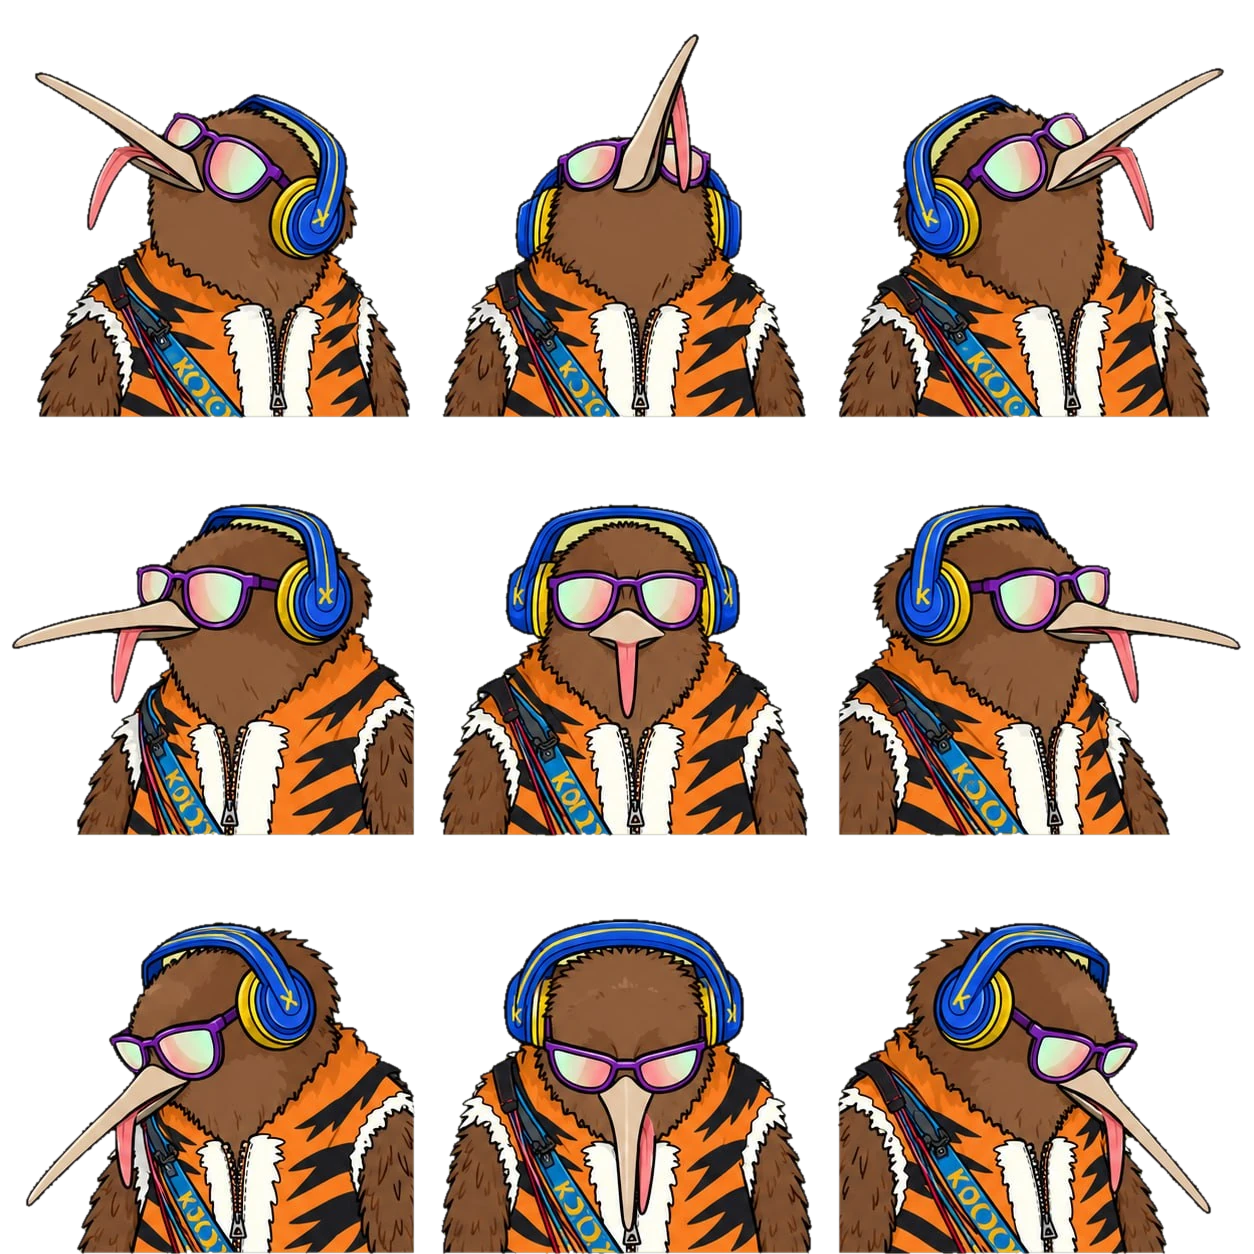
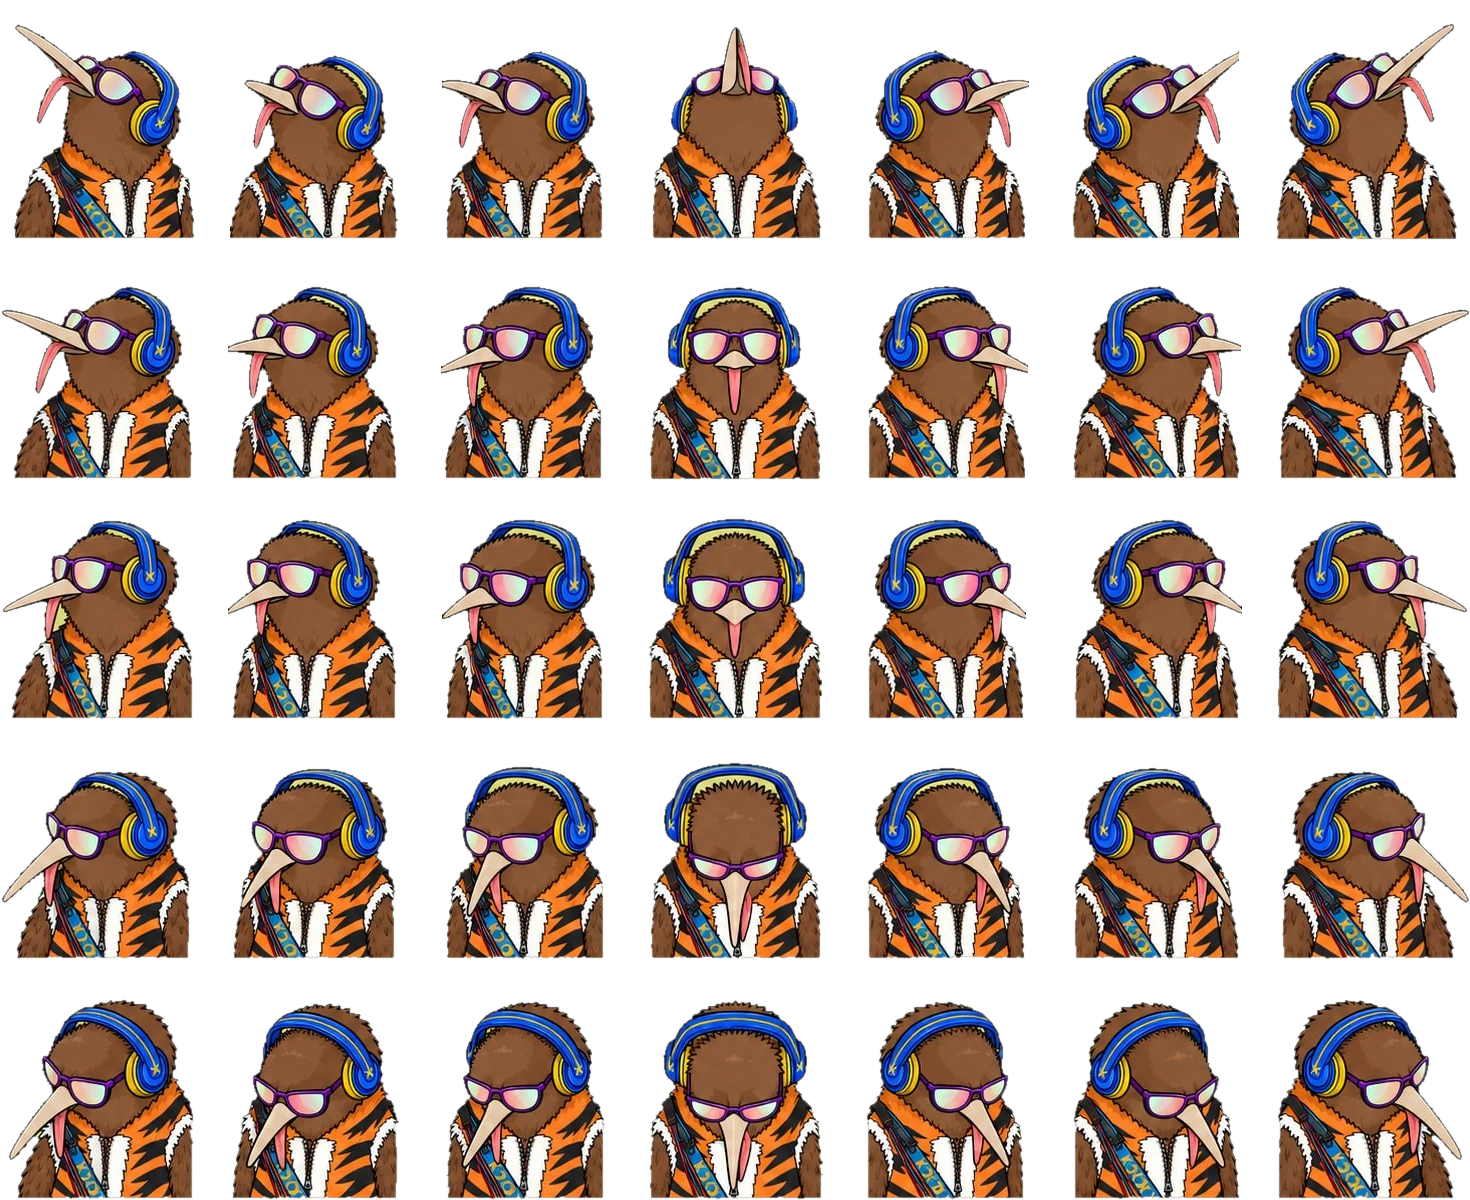
Kiwi flipbook: 35-pose sheet, one layer, stepwise frames, no blending

diff --git a/script.js b/script.js
@@ -115,87 +115,73 @@
   setInterval(tick, 12000);
 })();
 
-/* Kiwi looks around. Gaze is a point (u, v) in [-1, 1]^2 that eases toward a
-   target every frame; the nine poses of the sprite sheet are blended with
-   bilinear weights at that point, so there is never a hard switch. The stack
-   also shifts and tilts a little toward the gaze. Target follows the pointer
-   on desktop; when idle it wanders to a random direction and drifts back. */
+/* Kiwi looks around. 35 poses on a 7x5 grid (column = left..right, row =
+   up..down, centre = 3,2). The shown frame walks one cell at a time toward a
+   target cell at a steady flip rate, so every turn passes through the poses
+   in between: a flipbook, no blending. The target follows the pointer on
+   desktop (with hysteresis so it never chatters on a cell edge); when idle
+   it glances somewhere at random and comes back. */
 (function () {
-  var k = document.getElementById('kiwi');
-  if (!k || window.matchMedia('(prefers-reduced-motion: reduce)').matches) return;
-  var stack = k.querySelector('.kstack');
-  var layers = [];
-  k.querySelectorAll('.kf').forEach(function (el) { layers[+el.getAttribute('data-f')] = el; });
+  var k = document.getElementById('kiwi'), kf = document.getElementById('kf');
+  if (!k || !kf || window.matchMedia('(prefers-reduced-motion: reduce)').matches) return;
+  var COLS = 7, ROWS = 5, cc = 3, cr = 2, tc = 3, tr = 2;
+  var STEP = 70, last = 0, raf = 0, hover = false, idleTimer = null, glance = null;
 
-  var u = 0, v = 0, tu = 0, tv = 0, ease = 0.06, hover = false, idleTimer = null, raf = 0;
-  var w = [0, 0, 0, 0, 0, 0, 0, 0, 0], lastOp = [0, 0, 0, 0, 1, 0, 0, 0, 0];
-
-  function smooth(t) { return t * t * (3 - 2 * t); }
-
-  function paint() {
-    var cx = u + 1, ry = v + 1;                       /* 0..2 across the grid */
-    var i0 = Math.min(1, Math.floor(cx)), j0 = Math.min(1, Math.floor(ry));
-    var fx = smooth(cx - i0), fy = smooth(ry - j0);
-    for (var n = 0; n < 9; n++) w[n] = 0;
-    w[j0 * 3 + i0] = (1 - fx) * (1 - fy);
-    w[j0 * 3 + i0 + 1] = fx * (1 - fy);
-    w[(j0 + 1) * 3 + i0] = (1 - fx) * fy;
-    w[(j0 + 1) * 3 + i0 + 1] = fx * fy;
-    /* "over" compositing: layer opacity = its weight over the sum so far */
-    var sum = 0;
-    for (var m = 0; m < 9; m++) {
-      sum += w[m];
-      var a = sum > 0.0005 ? w[m] / sum : 0;
-      if (Math.abs(a - lastOp[m]) > 0.002) { layers[m].style.opacity = a.toFixed(3); lastOp[m] = a; }
+  function render() { kf.style.backgroundPosition = (cc / (COLS - 1) * 100) + '% ' + (cr / (ROWS - 1) * 100) + '%'; }
+  function loop(now) {
+    if (cc === tc && cr === tr) { raf = 0; return; }
+    if (now - last >= STEP) {
+      if (cc !== tc) cc += tc > cc ? 1 : -1;
+      if (cr !== tr) cr += tr > cr ? 1 : -1;
+      last = now; render();
     }
-    stack.style.transform = 'translate(' + (u * 9).toFixed(1) + 'px,' + (v * 5).toFixed(1) + 'px) rotate(' + (u * 2.2).toFixed(2) + 'deg)';
+    raf = requestAnimationFrame(loop);
+  }
+  function target(c, r) {
+    tc = Math.max(0, Math.min(COLS - 1, c)); tr = Math.max(0, Math.min(ROWS - 1, r));
+    if (!raf) raf = requestAnimationFrame(loop);
   }
 
-  function tick() {
-    u += (tu - u) * ease; v += (tv - v) * ease;
-    paint();
-    if (Math.abs(tu - u) > 0.002 || Math.abs(tv - v) > 0.002) raf = requestAnimationFrame(tick);
-    else { u = tu; v = tv; paint(); raf = 0; }
-  }
-  function go(x, y, e) {
-    tu = Math.max(-1, Math.min(1, x)); tv = Math.max(-1, Math.min(1, y)); ease = e;
-    if (!raf) raf = requestAnimationFrame(tick);
-  }
-
-  /* idle wander: look somewhere, hold, drift back, wait */
-  var glance = null;
+  /* idle: look somewhere, hold, come back, wait */
   function wander(delay) {
     clearTimeout(glance);
     glance = setTimeout(function () {
       if (hover) return;
-      var ang = Math.random() * Math.PI * 2, r = 0.7 + Math.random() * 0.3;
-      go(Math.cos(ang) * r, Math.sin(ang) * r * 0.9, 0.045);
-      var hold = 900 + Math.random() * 1100;
+      var c = Math.floor(Math.random() * COLS), r = Math.floor(Math.random() * ROWS);
+      if (Math.abs(c - 3) < 2 && Math.abs(r - 2) < 2) c = Math.random() < 0.5 ? 0 : 6;
+      target(c, r);
+      var hold = 900 + Math.random() * 1200;
       if (Math.random() < 0.35) {
-        setTimeout(function () { if (!hover) go(-Math.cos(ang) * 0.8, Math.sin(ang) * 0.3, 0.04); }, hold);
-        hold += 1100;
+        setTimeout(function () { if (!hover) target(6 - c, Math.round(2 + (r - 2) * 0.4)); }, hold);
+        hold += 1300;
       }
-      setTimeout(function () { if (!hover) go(0, 0, 0.035); }, hold);
-      wander(2600 + Math.random() * 3400);
+      setTimeout(function () { if (!hover) target(3, 2); }, hold);
+      wander(2800 + Math.random() * 3400);
     }, delay);
   }
 
+  /* pointer: cell that faces the cursor, with hysteresis */
   if (window.matchMedia('(hover: hover) and (pointer: fine)').matches) {
-    var hero = k.closest('.hero');
+    var hero = k.closest('.hero'), pc = 3, pr = 2;
     hero.addEventListener('pointermove', function (e) {
-      var r = k.getBoundingClientRect();
-      var ox = r.left + r.width * 0.5, oy = r.top + r.height * 0.42;     /* about the head */
-      hover = true;
-      go((e.clientX - ox) / (r.width * 0.7), (e.clientY - oy) / (r.height * 0.7), 0.11);
+      var b = k.getBoundingClientRect();
+      var ox = b.left + b.width * 0.5, oy = b.top + b.height * 0.38;       /* about the head */
+      var x = (e.clientX - ox) / (b.width * 0.75), y = (e.clientY - oy) / (b.height * 0.75);
+      var fc = (Math.max(-1, Math.min(1, x)) + 1) / 2 * (COLS - 1);
+      var fr = (Math.max(-1, Math.min(1, y)) + 1) / 2 * (ROWS - 1);
+      if (Math.abs(fc - pc) > 0.65) pc = Math.round(fc);
+      if (Math.abs(fr - pr) > 0.65) pr = Math.round(fr);
+      hover = true; target(pc, pr);
       clearTimeout(idleTimer);
-      idleTimer = setTimeout(function () { hover = false; go(0, 0, 0.04); wander(1800); }, 3000);
+      idleTimer = setTimeout(function () { hover = false; target(3, 2); wander(2000); }, 3000);
     });
     hero.addEventListener('pointerleave', function () {
       clearTimeout(idleTimer);
-      idleTimer = setTimeout(function () { hover = false; go(0, 0, 0.04); wander(1500); }, 400);
+      idleTimer = setTimeout(function () { hover = false; target(3, 2); wander(1500); }, 400);
     });
   }
   document.addEventListener('visibilitychange', function () { if (document.hidden) clearTimeout(glance); else if (!hover) wander(800); });
+  render();
   wander(1600);
 })();
 

diff --git a/styles.css b/styles.css
@@ -186,7 +186,7 @@ body::before {
 .social a:hover { color: var(--accent-ink); }
 
 .kiwi {
-  position: relative; width: 100%; max-width: 460px; aspect-ratio: 1; justify-self: end; align-self: end;
+  position: relative; width: 100%; max-width: 400px; aspect-ratio: 210 / 240; justify-self: end; align-self: end;
   margin-bottom: calc(-1 * clamp(3rem, 7vw, 6rem) - 16px);   /* bleed off the hero's bottom edge */
   transform-origin: 50% 100%;
   animation: bob 1.9s ease-in-out infinite;
@@ -198,27 +198,25 @@ body::before {
   background: radial-gradient(50% 50% at 50% 50%, rgba(var(--field-write), 0.28), transparent 70%);
   filter: blur(14px);
 }
-/* nine poses from one 3x3 sprite sheet, blended continuously by script */
+/* 35 poses (7 columns x 5 rows) in one sprite sheet; script flips frames */
 .kstack {
   position: absolute; inset: 0; z-index: 1;
   filter: drop-shadow(0 24px 40px rgba(0, 0, 0, 0.55));
-  mask-image: linear-gradient(to bottom, #000 88%, transparent 100%);
-  -webkit-mask-image: linear-gradient(to bottom, #000 88%, transparent 100%);
-  will-change: transform;
+  mask-image: linear-gradient(to bottom, #000 90%, transparent 100%);
+  -webkit-mask-image: linear-gradient(to bottom, #000 90%, transparent 100%);
 }
 .kf {
-  position: absolute; inset: 0; opacity: 0;
+  position: absolute; inset: 0;
   background-image: url("/assets/kiwi-sheet.webp");
-  background-size: 300% 300%; background-repeat: no-repeat;
+  background-size: 700% 500%; background-repeat: no-repeat;
+  background-position: 50% 50%;       /* column 3, row 2: straight ahead */
+  image-rendering: auto;
 }
-.kf[data-f="0"] { background-position: 0% 0%; }   .kf[data-f="1"] { background-position: 50% 0%; }   .kf[data-f="2"] { background-position: 100% 0%; }
-.kf[data-f="3"] { background-position: 0% 50%; }  .kf[data-f="4"] { background-position: 50% 50%; }  .kf[data-f="5"] { background-position: 100% 50%; }
-.kf[data-f="6"] { background-position: 0% 100%; } .kf[data-f="7"] { background-position: 50% 100%; } .kf[data-f="8"] { background-position: 100% 100%; }
 @keyframes bob {
   0%, 100% { translate: 0 0; }
   50% { translate: 0 -10px; }
 }
-@media (max-width: 899px) { .kiwi { max-width: 320px; justify-self: start; } }
+@media (max-width: 899px) { .kiwi { max-width: 280px; justify-self: start; } }
 @media (prefers-reduced-motion: reduce) { .kiwi { animation: none; } }
 
 /* ---------- marquee ---------- */

diff --git a/index.html b/index.html
@@ -55,11 +55,7 @@
         </ul>
       </div>
       <div class="kiwi" id="kiwi" aria-hidden="true">
-        <div class="kstack">
-          <div class="kf" data-f="0"></div><div class="kf" data-f="1"></div><div class="kf" data-f="2"></div>
-          <div class="kf" data-f="3"></div><div class="kf" data-f="4" style="opacity:1"></div><div class="kf" data-f="5"></div>
-          <div class="kf" data-f="6"></div><div class="kf" data-f="7"></div><div class="kf" data-f="8"></div>
-        </div>
+        <div class="kstack"><div class="kf" id="kf"></div></div>
       </div>
     </div>
   </section>
